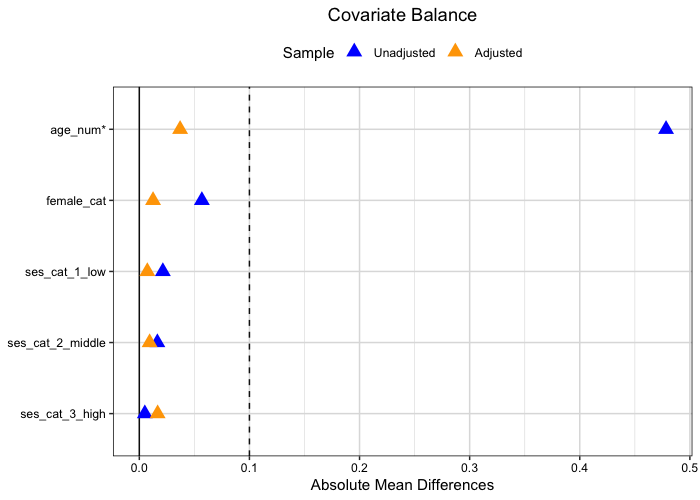
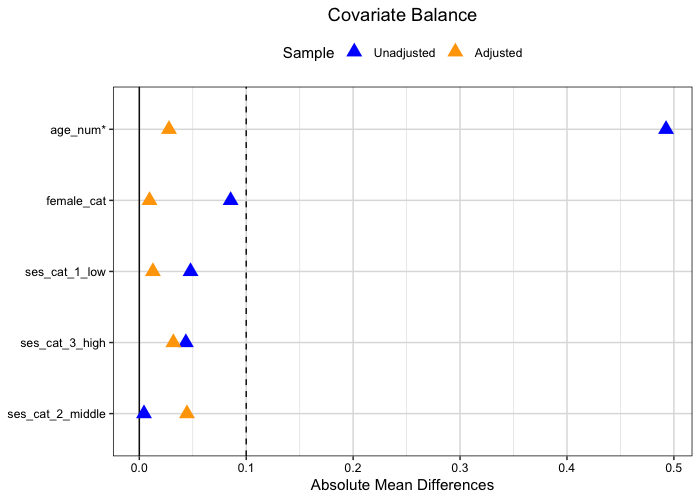
applied attrition

diff --git a/README.md b/README.md
@@ -79,16 +79,22 @@ attrition <- get_attrition(
   criteria_descriptions = c(
     "Age > 21 years at index date"
     , "No history of smoking"
+    , "No EGFR mutation"
     ),
   # coded condition
   criteria_conditions   = c(
     "age_num > 21"
     , "smoking_cat == 0"
+    , "egfr_cat == 0"
     ),
   # patient ID column
   subject_column_name   = "patientID"
   
   )
+
+# apply attrition steps: [-1] just removes the first attrition 
+# condition in the table which is "none"
+data_eligible <- apply_attrition(data, attrition$Condition[-1])
 
 visr(
   x = attrition,
@@ -116,7 +122,7 @@ exposure_form <- as.formula("exposure ~ age_num + female_cat + ses_cat")
 # with 0.2 caliper on propensity score
 ps_matching <- matchit(
   formula = exposure_form,
-  data = data,
+  data = data_eligible,
   ratio = 1,
   method = "nearest",
   distance = "glm",
@@ -172,7 +178,7 @@ coxph(
     # A tibble: 1 × 5
       term     estimate robust.se conf.low conf.high
       <chr>       <dbl>     <dbl>    <dbl>     <dbl>
-    1 exposure    0.824    0.0484    0.750     0.906
+    1 exposure    0.916    0.0842    0.776      1.08
 
 ## Appendix
 
